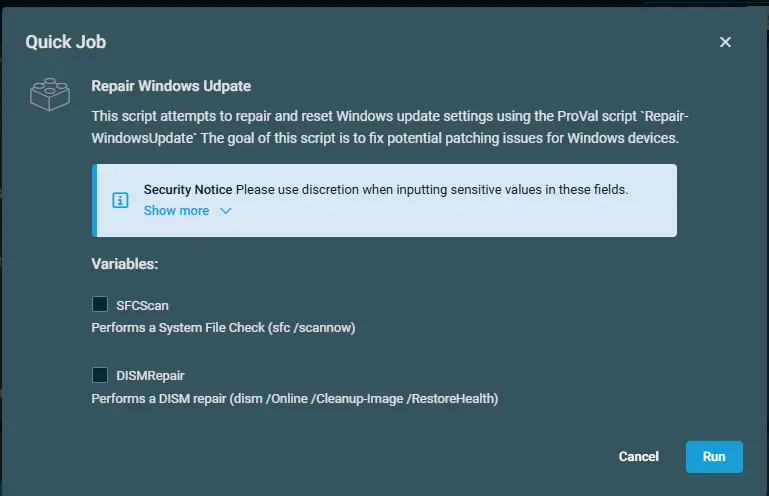
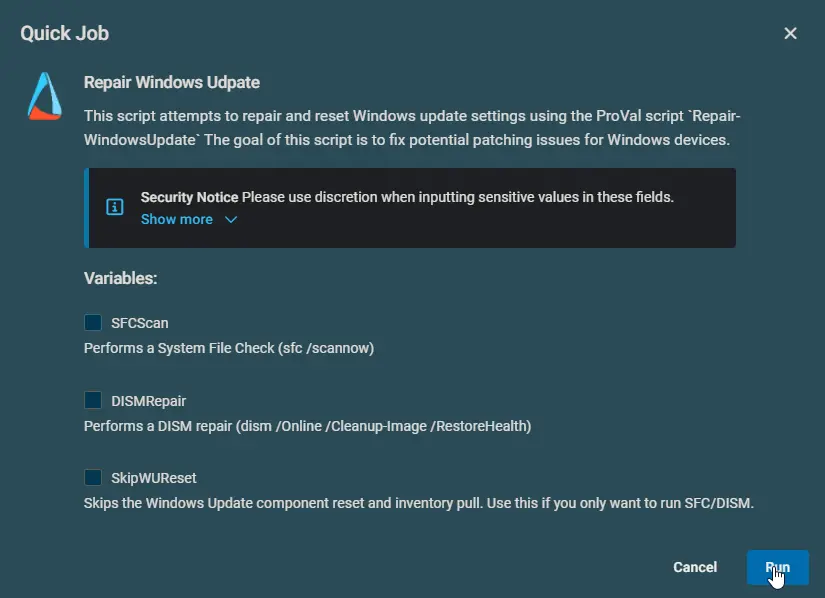
Datto Implementation
- Created and documented Datto implementation

Changed region(s): [[0.0, 0.0, 1.0, 1.0], [0.0936, 0.5141, 0.9051, 0.877]]

diff --git a/docs/dattormm/components/repair-windows-update.md b/docs/dattormm/components/repair-windows-update.md
@@ -3,59 +3,133 @@ id: '6ea2b1cf-0329-4622-b681-25659af9cae7'
 slug: /6ea2b1cf-0329-4622-b681-25659af9cae7
 title: 'Repair Windows Update'
 title_meta: 'Repair Windows Update'
-keywords: ['repair', 'windows', 'update', 'settings', 'script', 'dism', 'sfcscan']
-description: 'This document outlines a script designed to repair and reset Windows update settings, aiming to resolve potential patching issues on Windows devices. It details the script’s dependencies, global and user parameters, process, and expected output, including logging of successes and failures.'
-tags: ['performance', 'software', 'update', 'windows']
+keywords: ['repair', 'windows-update', 'reset', 'troubleshoot', 'sfc', 'dism', 'datto']
+description: 'This script resets Windows Update settings and repairs system files to resolve common update errors. It clears outdated update caches, resets core services, and optionally repairs the Windows image.'
+tags: ['update', 'windows', 'datto']
 draft: false
 unlisted: false
 last_update:
-  date: 2026-06-22
+  date: 2026-08-18
 ---
 
 ## Overview
-This script attempts to repair and reset Windows update settings using the ProVal script: [Repair-WindowsUpdate](/docs/39345bfd-d9e2-4e68-9d7a-3e8b443140cc)  
-The goal of this script is to fix potential patching issues for Windows devices.
+
+This automated procedure repairs corrupted Windows Update components, resolves common update errors, and optionally runs deep system health checks (DISM and SFC). Regular maintenance of the Windows Update agent ensures that security patches and feature updates install reliably without getting stuck or failing.
+
+To minimize manual intervention, this procedure securely downloads and executes a pre-approved repair script, automatically handling service restarts, cache clearing, and system file validation based on your selected configuration in Datto RMM.
+
+## How It Works
+
+1. **Environment Configuration:** When the job runs, Datto RMM passes the selected repair options (such as running SFC, DISM, or skipping the update reset) as environment variables to the wrapper script.
+
+2. **Secure Download & Validation:** The wrapper script securely downloads the agnostic repair payload from the content repository. It strictly validates the digital signature of the downloaded script against trusted ProVal thumbprints before execution.
+
+3. **Smart Execution:** The wrapper reads the environment variables, converts them to boolean values, and passes them as switches to the agnostic script. If the variables are missing or invalid, the script automatically falls back to its default behavior (resetting Windows Update components without running SFC/DISM).
+
+4. **Component Repair & Reset:** The agnostic script takes over. It safely stops services, clears out old backup folders to prevent disk bloat, runs DISM and SFC in the correct order (if requested), resets the Windows Update agent, and pulls a fresh update inventory.
+
+## Key Benefits & Behaviors
+
+* **Optimized Repair Order:** When both DISM and SFC are selected, the script automatically runs DISM first to repair the underlying Windows image, ensuring SFC has a healthy source to pull from when fixing system files.
+* **Disk Space Management:** Automatically detects and removes old, leftover Windows Update backup folders (like 'SoftwareDistribution.bak' and 'Catroot2.bak') that accumulate over time and consume valuable disk space.
+* **Secure & Verified:** All downloads are forced over TLS 1.2/1.3, and execution is blocked if the script signature is invalid, missing, or untrusted.
+* **Fallback Safe:** If the environment variables are accidentally left blank or contain invalid strings, the script will not fail; it will simply execute the standard Windows Update reset.
 
 ## Dependencies
 
-[Repair-WindowsUpdate](/docs/39345bfd-d9e2-4e68-9d7a-3e8b443140cc)
+- [Repair-WindowsUpdate](/docs/39345bfd-d9e2-4e68-9d7a-3e8b443140cc)
 
-
-## Implementation  
+## Implementation
 
 1. Download the component [Repair Windows Update](../../../static/attachments/repair-windows-udpate.cpt) from the attachments.
-
-2. After downloading the attached file, click on the `Import` button
-3. Select the component just downloaded and add it to the Datto RMM interface.  
-![Image 1](../../../static/img/docs/cad55427-9b06-47c0-b675-6b2fb974c1c4/template1.webp)  
+2. After downloading the attached file, click on the 'Import' button in the Datto RMM interface.
+3. Select the component just downloaded and add it to your Datto RMM account.  
+  ![Image 1](../../../static/img/docs/cad55427-9b06-47c0-b675-6b2fb974c1c4/template1.webp)  
 
 ## Sample Run
 
-To execute the `Repair Windows Update` over a specific machine, follow these steps:  
+To execute the 'Repair Windows Update' over a specific machine, follow these steps:  
 
-1. Select the machine you want to run the `Repair Windows Update` on from the Datto RMM.  
-
-2. Click on the `Quick Job` button.  
-![Image 2](../../../static/img/docs/cad55427-9b06-47c0-b675-6b2fb974c1c4/template2.webp)  
-
-3. Search the component `Repair Windows Update` and click on `Select`   
+1. Select the machine you want to run the 'Repair Windows Update' on from the Datto RMM.  
+2. Click on the 'Quick Job' button.  
+  ![Image 2](../../../static/img/docs/cad55427-9b06-47c0-b675-6b2fb974c1c4/template2.webp)  
+3. Search the component 'Repair Windows Update' and click on 'Select'.  
  ![Image 3](../../../static/img/docs/cad55427-9b06-47c0-b675-6b2fb974c1c4/template3.webp)
+4. Configure the desired environment variables and click Run.  
+  ![Image 1](../../../static/img/docs/6ea2b1cf-0329-4622-b681-25659af9cae7/image1.webp)
 
-4. Select the desired action to perform and click Run   
-![Image 1](../../../static/img/docs/6ea2b1cf-0329-4622-b681-25659af9cae7/image1.webp) 
+### Configuring the Variables
 
-## Datto Variables
+**Repair Options:**
 
-| Variable Name | Type | Default | Description |
-| ------------- | ---- | ------- | ----------- |
-|SfcScan | Boolean|False|Performs a System File Check (sfc /scannow)|
-|DISMRepair| Boolean|False|Performs a DISM repair (dism /Online /Cleanup-Image /RestoreHealth)|
+1. Set 'DISMRepair' to 'True' to repair the Windows component store before checking system files.
+2. Set 'SFCScan' to 'True' to scan and repair corrupted Windows system files.
+3. Set 'SkipWUReset' to 'True' if you only want to run system health checks (DISM/SFC) without resetting the Windows Update services and caches.
 
+## Variables
+
+| Variable | Type | Default | Description |
+|----------|------|---------|-------------|
+| 'DISMRepair' | String | 'False' | Enable to run the DISM RestoreHealth command. This repairs the underlying Windows image and should be run before SFC. 'Accepted values: 1, Yes, True' |
+| 'SFCScan' | String | 'False' | Enable to run the System File Checker ('sfc /scannow'). This scans and repairs corrupted Windows system files. 'Accepted values: 1, Yes, True' |
+| 'SkipWUReset' | String | 'False' | Enable to skip the Windows Update component reset and inventory pull. Use this if you only want to perform system health checks without touching update services. 'Accepted values: 1, Yes, True' |
+
+## Real-Life Scenarios
+
+### Scenario 1: Standard Update Reset (Default)
+
+**Settings:** All variables left at default ('False' or empty).
+
+**What happens:**
+
+- The script skips DISM and SFC to save time.
+- It stops Windows Update services, deletes old '.bak' cache folders, and renames the active 'SoftwareDistribution' and 'Catroot2' folders.
+- It restarts the services and pulls a fresh inventory of available updates.
+- **Best for:** Machines where updates are stuck at 'Checking for updates' or failing to download.
+
+### Scenario 2: Comprehensive System & Update Repair
+
+**Settings:**
+
+- 'DISMRepair' = 'True'
+- 'SFCScan' = 'True'
+
+**What happens:**
+
+- The script first runs DISM to ensure the Windows component store is healthy.
+- It then runs SFC to repair any corrupted system files using the healthy component store.
+- Finally, it performs the full Windows Update reset and pulls a new inventory.
+- **Best for:** Machines experiencing repeated update installation failures (e.g., error 0x800f081f) or general OS instability.
+
+### Scenario 3: System Health Check Only
+
+**Settings:**
+
+- 'DISMRepair' = 'True'
+- 'SFCScan' = 'True'
+- 'SkipWUReset' = 'True'
+
+**What happens:**
+
+- The script runs DISM and SFC to repair the OS image and system files.
+- It completely skips the Windows Update service resets and cache clearing.
+- **Best for:** Post-patching validation or troubleshooting general Windows errors without disrupting the current Windows Update agent state.
+
+### Scenario 4: Missing or Invalid Environment Variables
+
+**Settings:** The RMM agent fails to pass the environment variables or passes invalid strings due to a configuration glitch.
+
+**What happens:**
+
+- The wrapper script evaluates the variables against the accepted regex pattern.
+- Since the values do not match, it defaults all switches to 'False'.
+- Instead of failing, it gracefully falls back to the default behavior and executes the standard Windows Update reset (Scenario 1).
+- **Best for:** Ensuring the procedure never fails silently and always attempts a baseline repair.
 
 ## Output
 
-- stdOut  
-- stdError  
+- Script execution log (managed via the Strapper module and written to 'ProgramData\_Automation\Script\Repair-WindowsUpdate\')
+- Standard Windows Update logs ('C:\Windows\Logs\CBS\CBS.log' and 'C:\Windows\Logs\DISM\dism.log') if DISM/SFC are executed.
 
 ## Attachments  
 
@@ -63,6 +137,12 @@ To execute the `Repair Windows Update` over a specific machine, follow these ste
 
 ## Changelog
  
+### 2026-08-18
+
+- Updated documentation structure to align with standard implementation templates.
+- Added 'SkipWUReset' parameter to allow skipping the Windows Update component reset.
+- Detailed real-life scenarios and environment variable configurations for Datto RMM.
+
 ### 2026-06-22
 
-- Initial version of the document
+- Initial version of the document.
